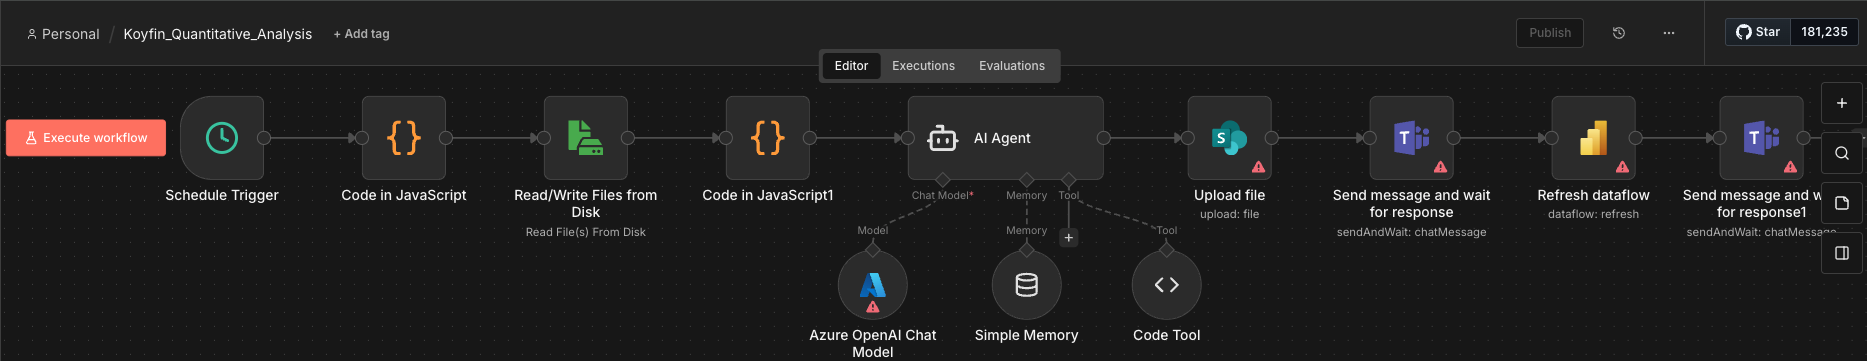
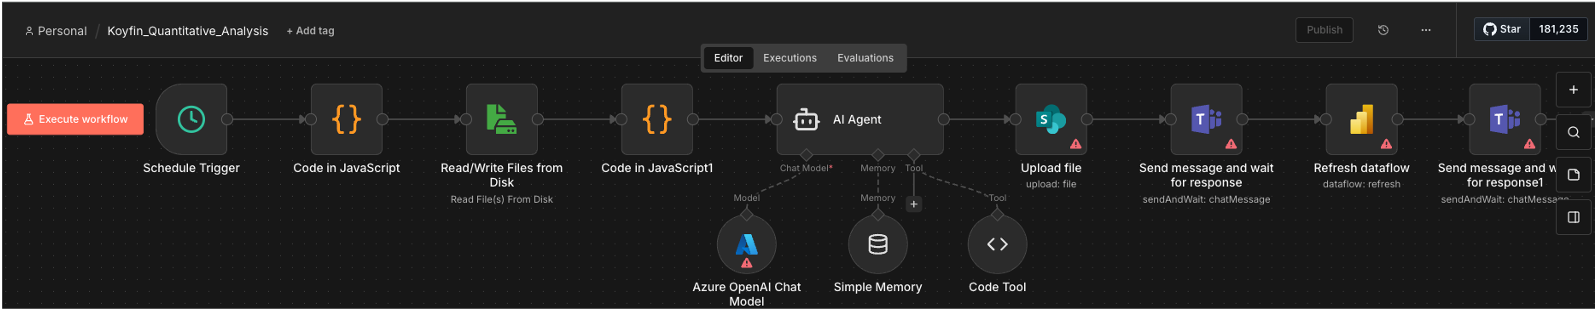
Update AI-Enabled Market Intelligence image, fix dark-theme fill
- Swap in a cleaner crop of the n8n workflow screenshot
- Cap the edge-color auto-fill so dark-themed screenshots (like
  this one) fall back to the site's cream tone instead of sampling
  to near-black, keeping every card visually consistent

diff --git a/assets/js/main.js b/assets/js/main.js
@@ -200,6 +200,12 @@ document.addEventListener("DOMContentLoaded", function () {
         // Cross-origin or decode failure: keep the default background.
       }
     }
+    // Dark-themed screenshots (e.g. a code editor UI) sample to near-black,
+    // which clashes with the site's light cream/white card design. Fall back
+    // to the site's own cream tone whenever the sampled edge is too dark to
+    // read as an intentional match rather than a jarring outlier.
+    var FALLBACK_LIGHT = "rgb(250,246,242)";
+    var DARK_LUMINANCE_THRESHOLD = 60;
     function averageRowColor(data) {
       var r = 0,
         g = 0,
@@ -210,7 +216,14 @@ document.addEventListener("DOMContentLoaded", function () {
         g += data[i + 1];
         b += data[i + 2];
       }
-      return "rgb(" + Math.round(r / count) + "," + Math.round(g / count) + "," + Math.round(b / count) + ")";
+      r = Math.round(r / count);
+      g = Math.round(g / count);
+      b = Math.round(b / count);
+      var luminance = 0.299 * r + 0.587 * g + 0.114 * b;
+      if (luminance < DARK_LUMINANCE_THRESHOLD) {
+        return FALLBACK_LIGHT;
+      }
+      return "rgb(" + r + "," + g + "," + b + ")";
     }
     if (img.complete && img.naturalWidth) {
       apply();